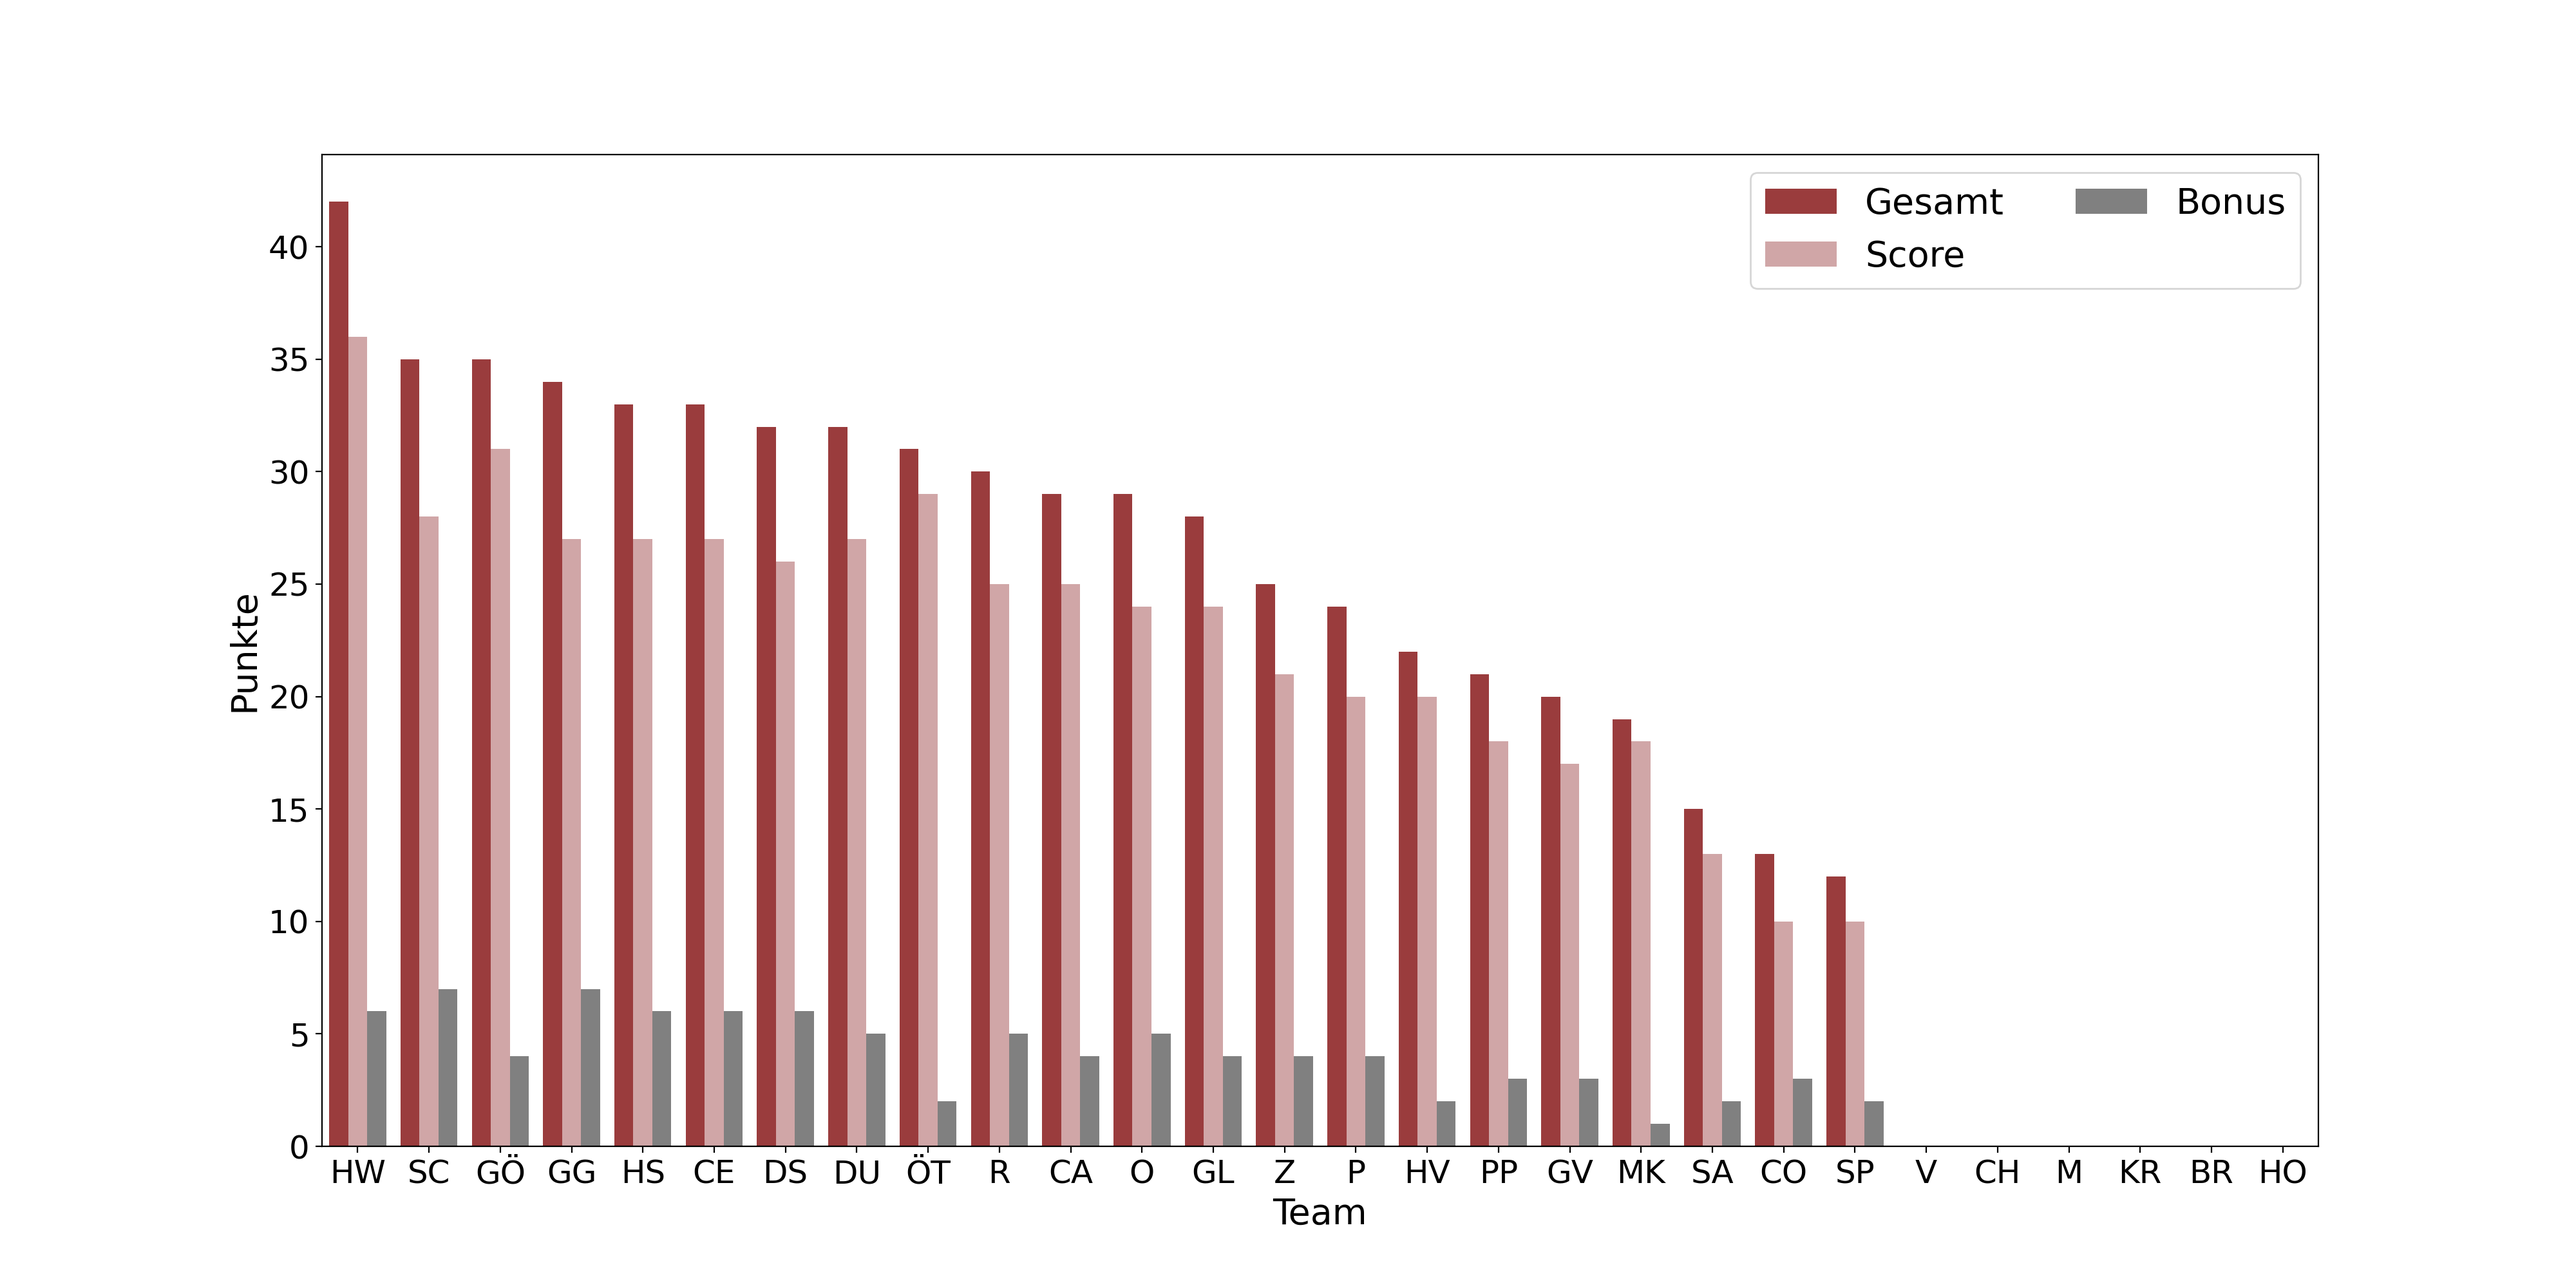
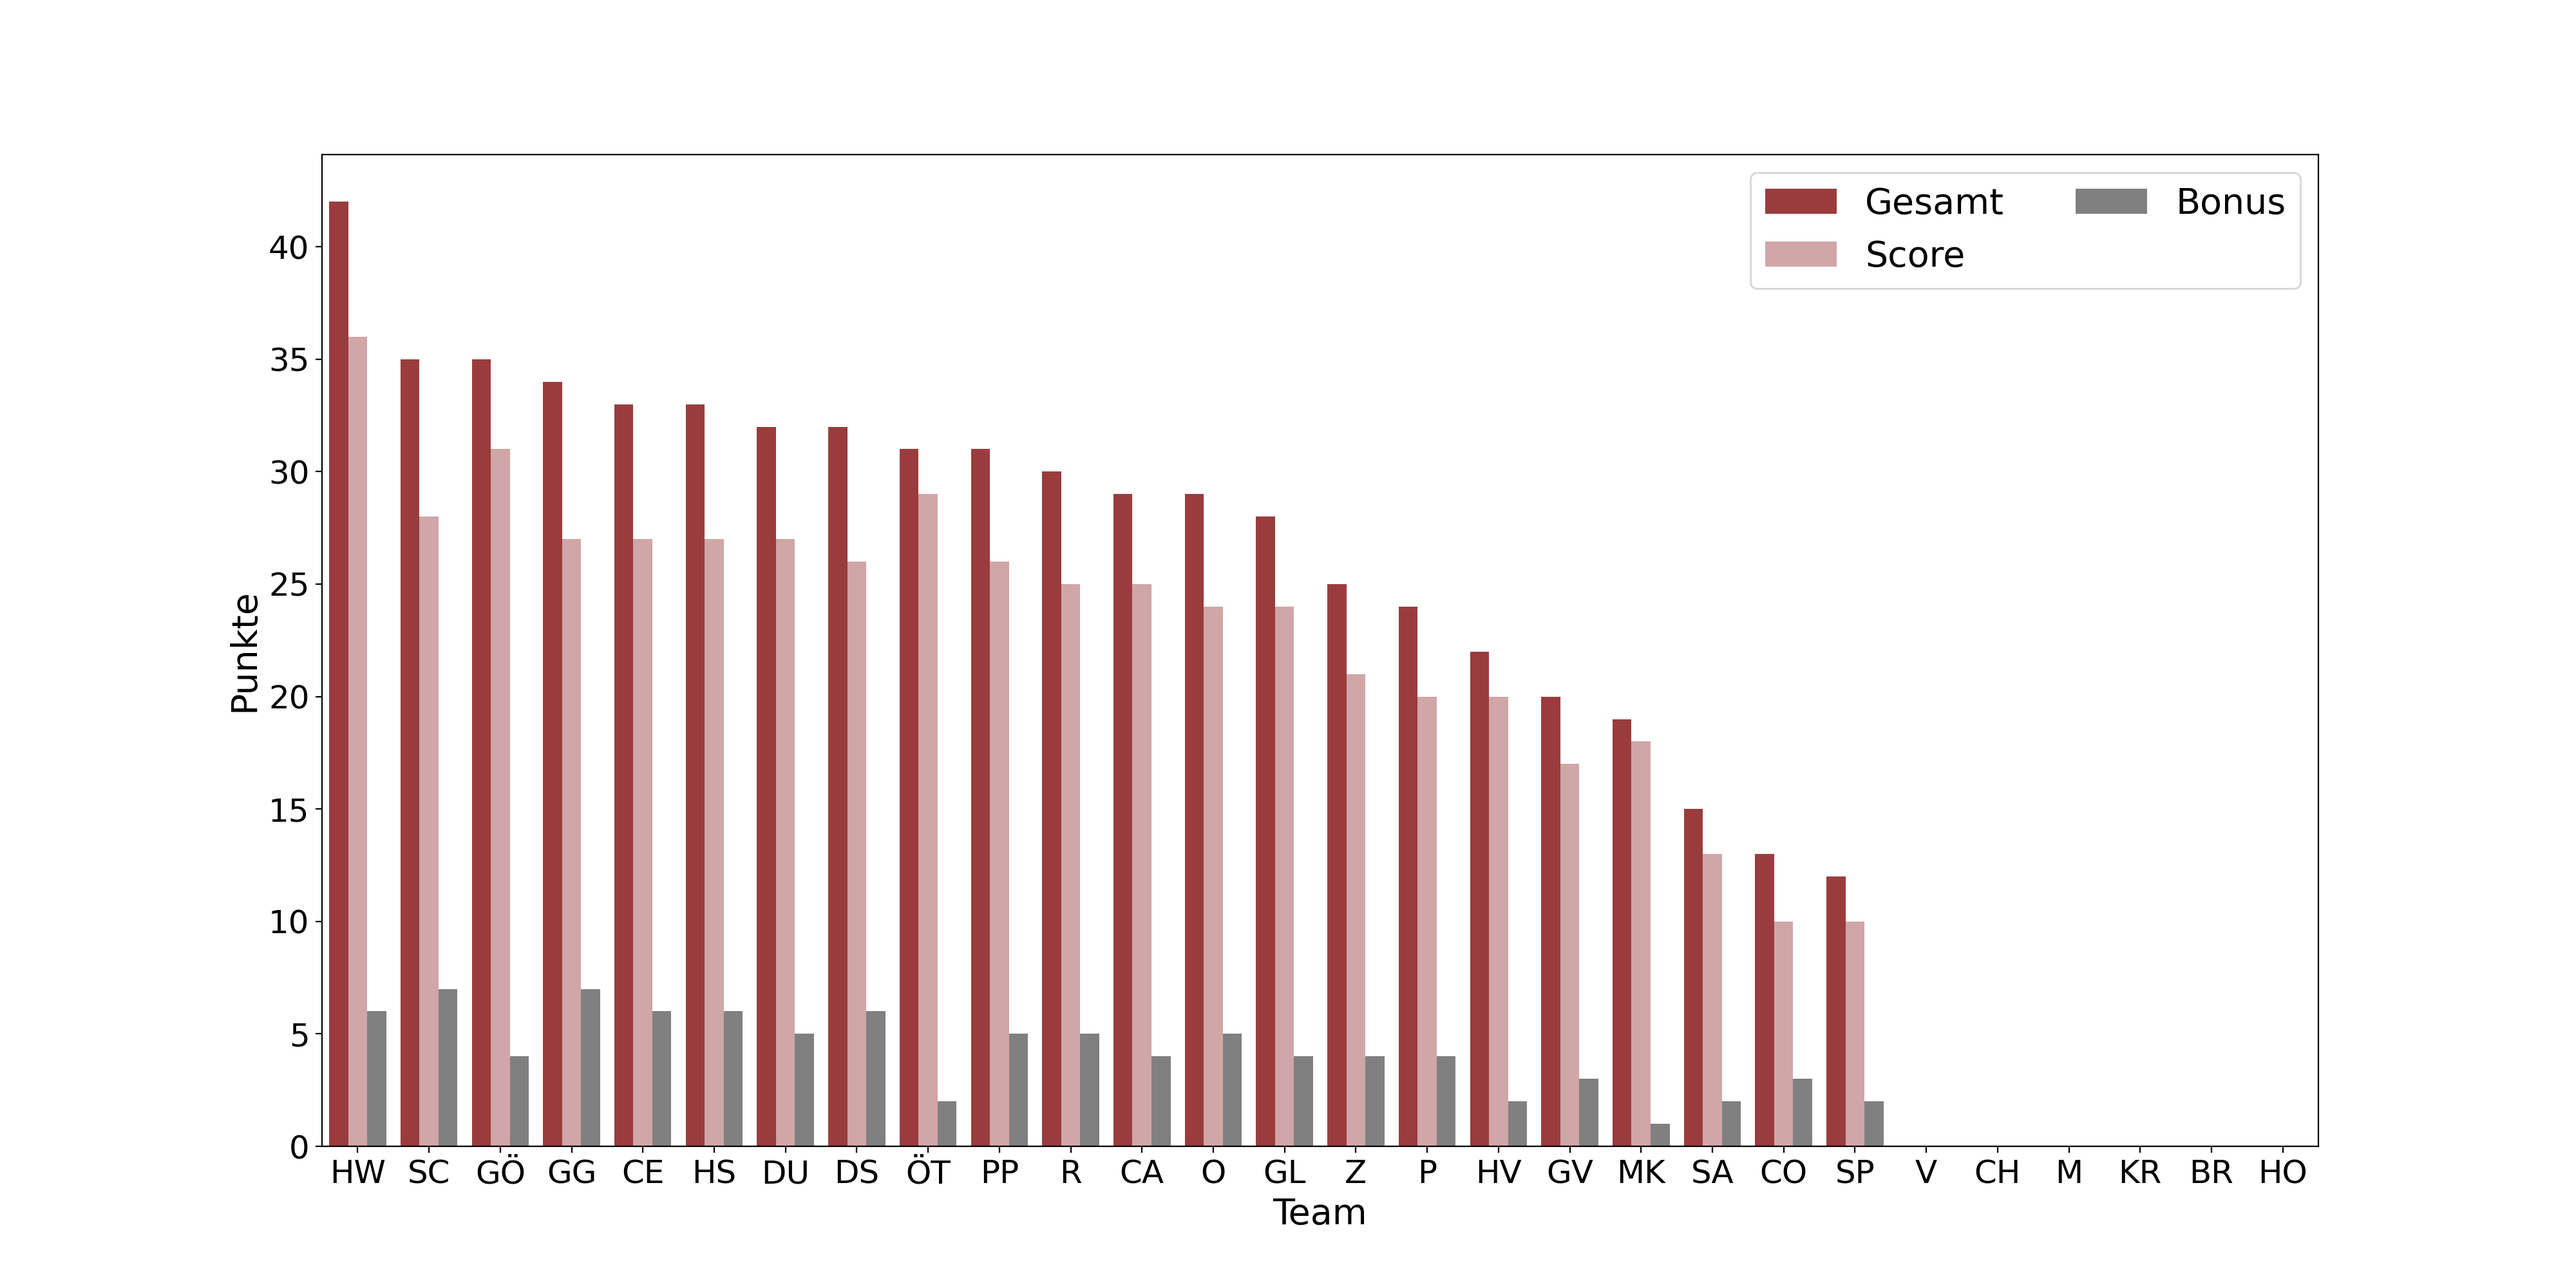
update

diff --git a/css/style_teams.css b/css/style_teams.css
@@ -12,7 +12,7 @@
             background-color: #bde0fe
         }
         .GL {
-            order: 12
+            order: 13
         }
         .GL .team__all-points::after{
             content: "28"
@@ -31,7 +31,7 @@
             background-color: #daeaf6
         }
         .O {
-            order: 11
+            order: 12
         }
         .O .team__all-points::after{ 
             content: " 29"
@@ -51,7 +51,7 @@
             background-color: #9bd0b7
         }
         .Z {
-            order: 13
+            order: 14
         }
         .Z .team__all-points::after{
             content: "25"
@@ -92,7 +92,7 @@
             background-color: #dab894
         }
         .DS {
-            order: 6
+            order: 7
         }
         .DS .team__all-points::after{
             content: "32"
@@ -112,7 +112,7 @@
             background-color: #d6eadf
         }
         .DU {
-            order: 7
+            order: 6
         }
         .DU .team__all-points::after{
             content: "32"
@@ -314,7 +314,7 @@
             background-color: #5d5b6a
         }
         .P {
-            order: 14
+            order: 15
         }
         .P .team__all-points::after{
             content: "24"
@@ -334,7 +334,7 @@
             background-color: #ffafcc
         }
         .R {
-            order: 9
+            order: 10
         }
         .R .team__all-points::after{
             content: "30"
@@ -355,7 +355,7 @@
             background-color: #efe9ae
         }
         .HS {
-            order: 4
+            order: 5
         }
         .HS .team__all-points::after{
             content: "33"
@@ -376,7 +376,7 @@
             background-color: #ff928b
         }
         .CE {
-            order: 5
+            order: 4
         }
         .CE .team__all-points::after{
             content: "33"
@@ -384,22 +384,22 @@
 
 
         .PP .team__score::after {
-            content: "18/120"
+            content: "26/120"
         }
         .PP .team__stations::after {
-            content: "3/12"
+            content: "4/12"
         }
         .PP .team__bonus::after {
-            content: "3/36"
+            content: "5/36"
         }
         .PP .team__logo {
             background-color: #7ec4cf
         }
         .PP {
-            order: 16
+            order: 9
         }
         .PP .team__all-points::after{
-            content: "21"
+            content: "31"
         }
 
         
@@ -476,7 +476,7 @@
             background-color: #b8e0d2
         }
         .HV {
-            order: 15
+            order: 16
         }
         .HV .team__all-points::after{
             content: "22"
@@ -516,7 +516,7 @@
             background-color: #ffc8dd
         }
         .CA {
-            order: 10
+            order: 11
         }
         .CA .team__all-points::after{
             content: "29"

diff --git a/css/style_station.css b/css/style_station.css
@@ -24,7 +24,7 @@
         }
 
         .G .station__teams::after {
-            content: "6/28"
+            content: "7/28"
         }
 
         .H .station__teams::after {
